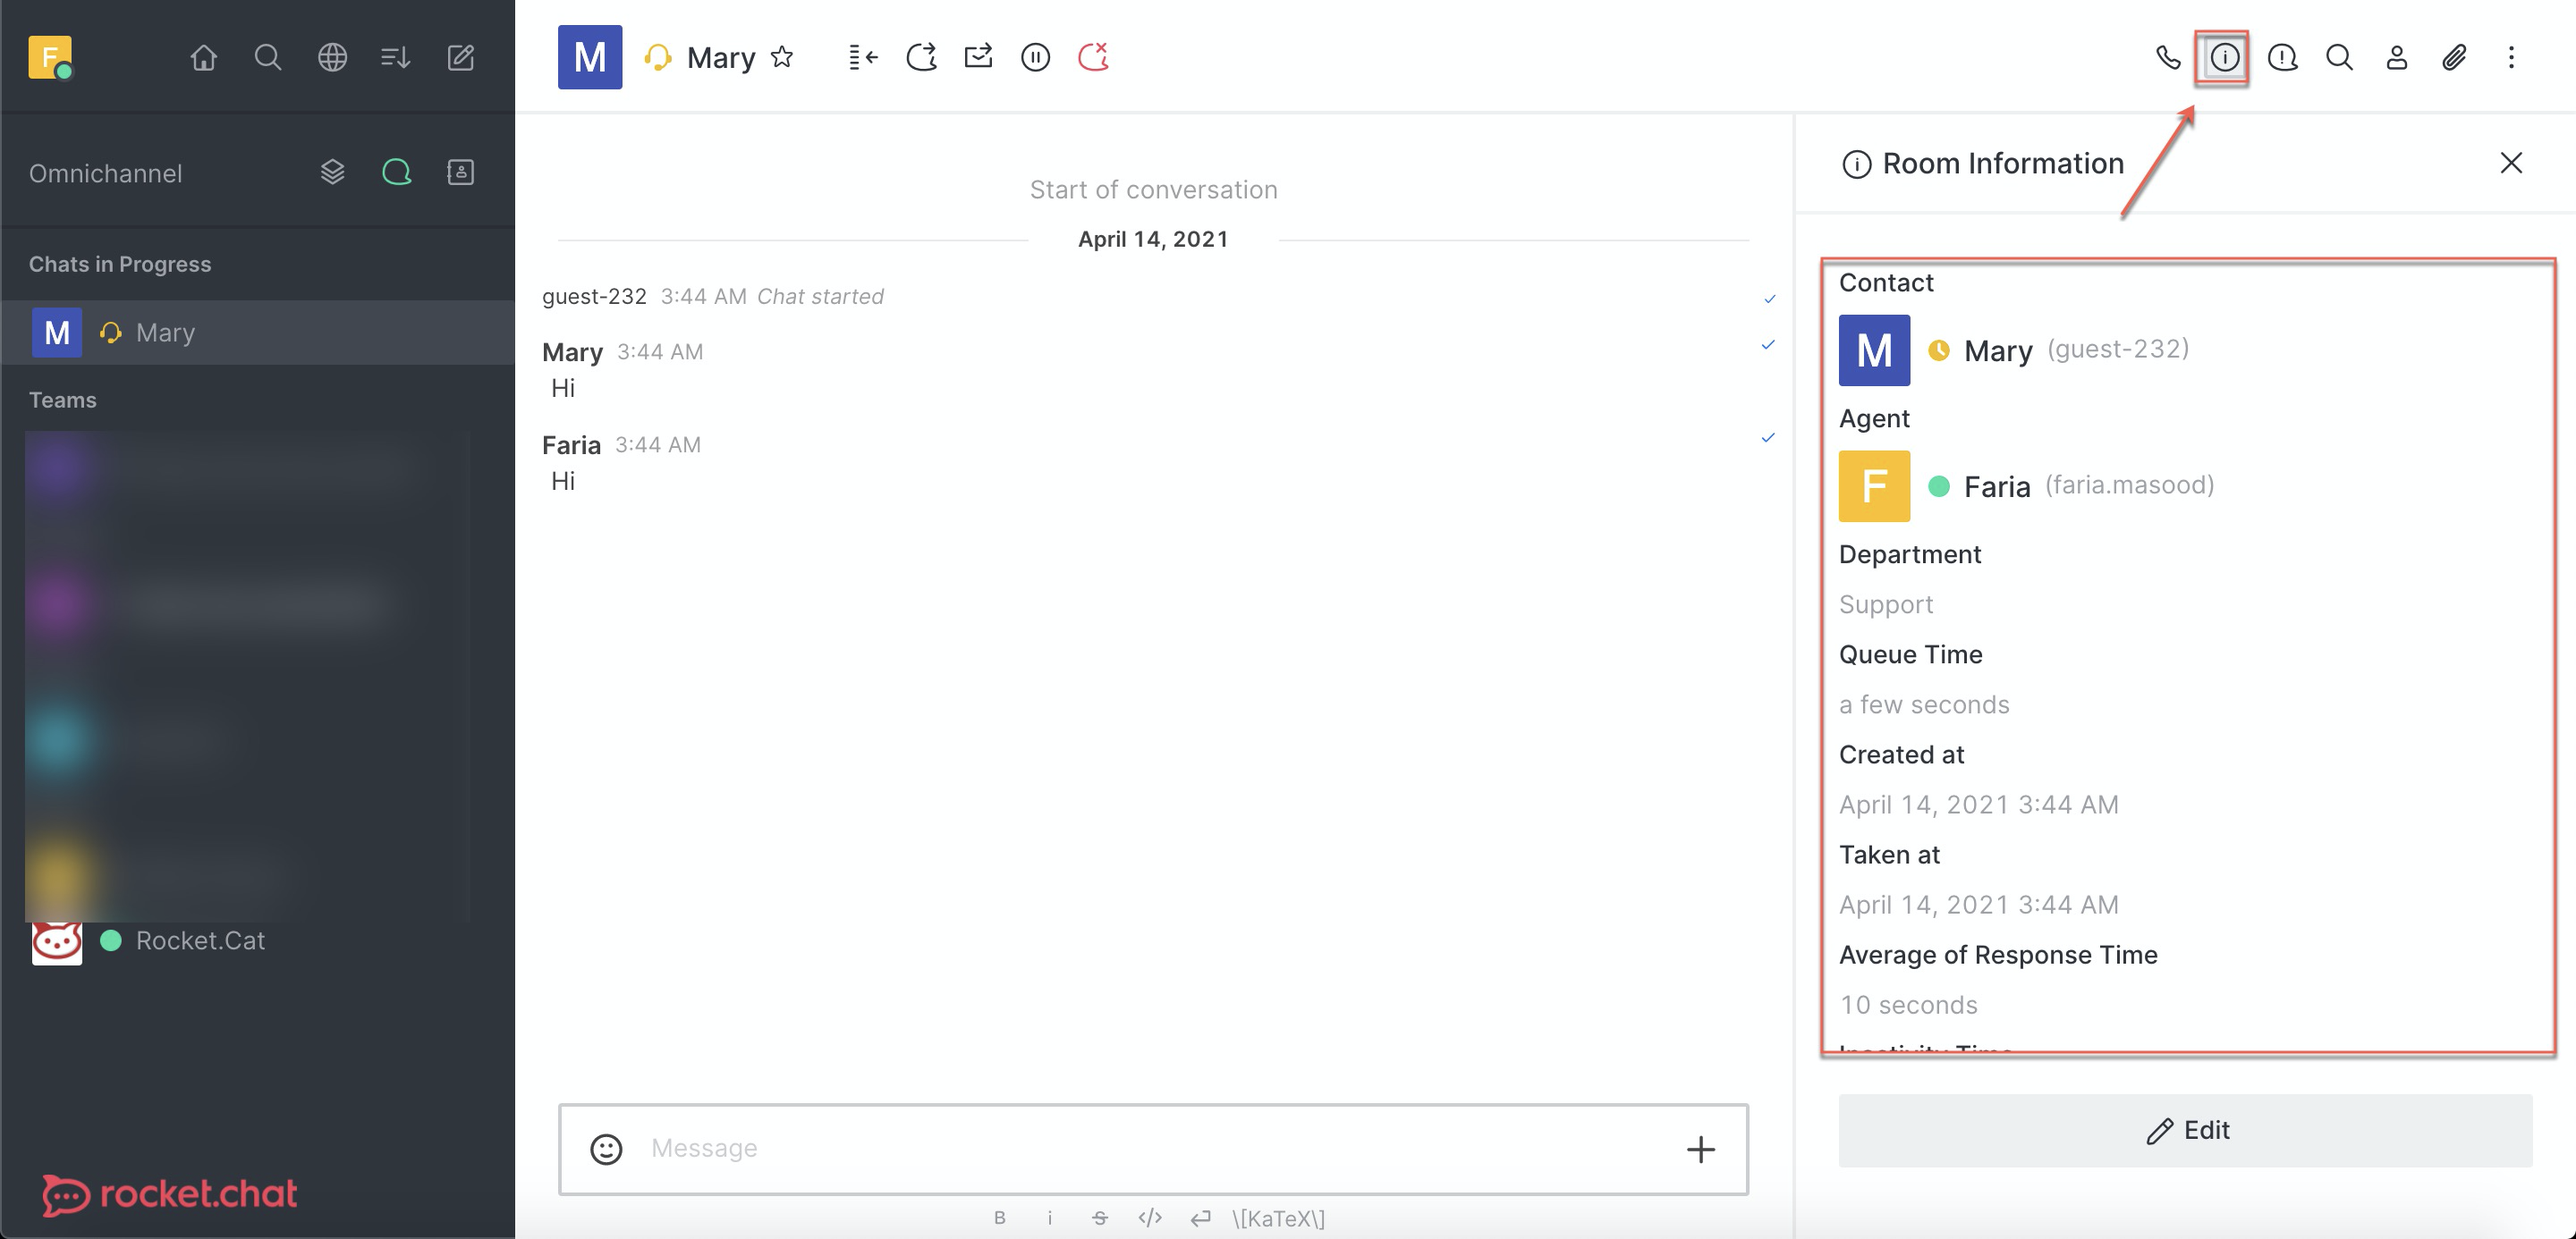
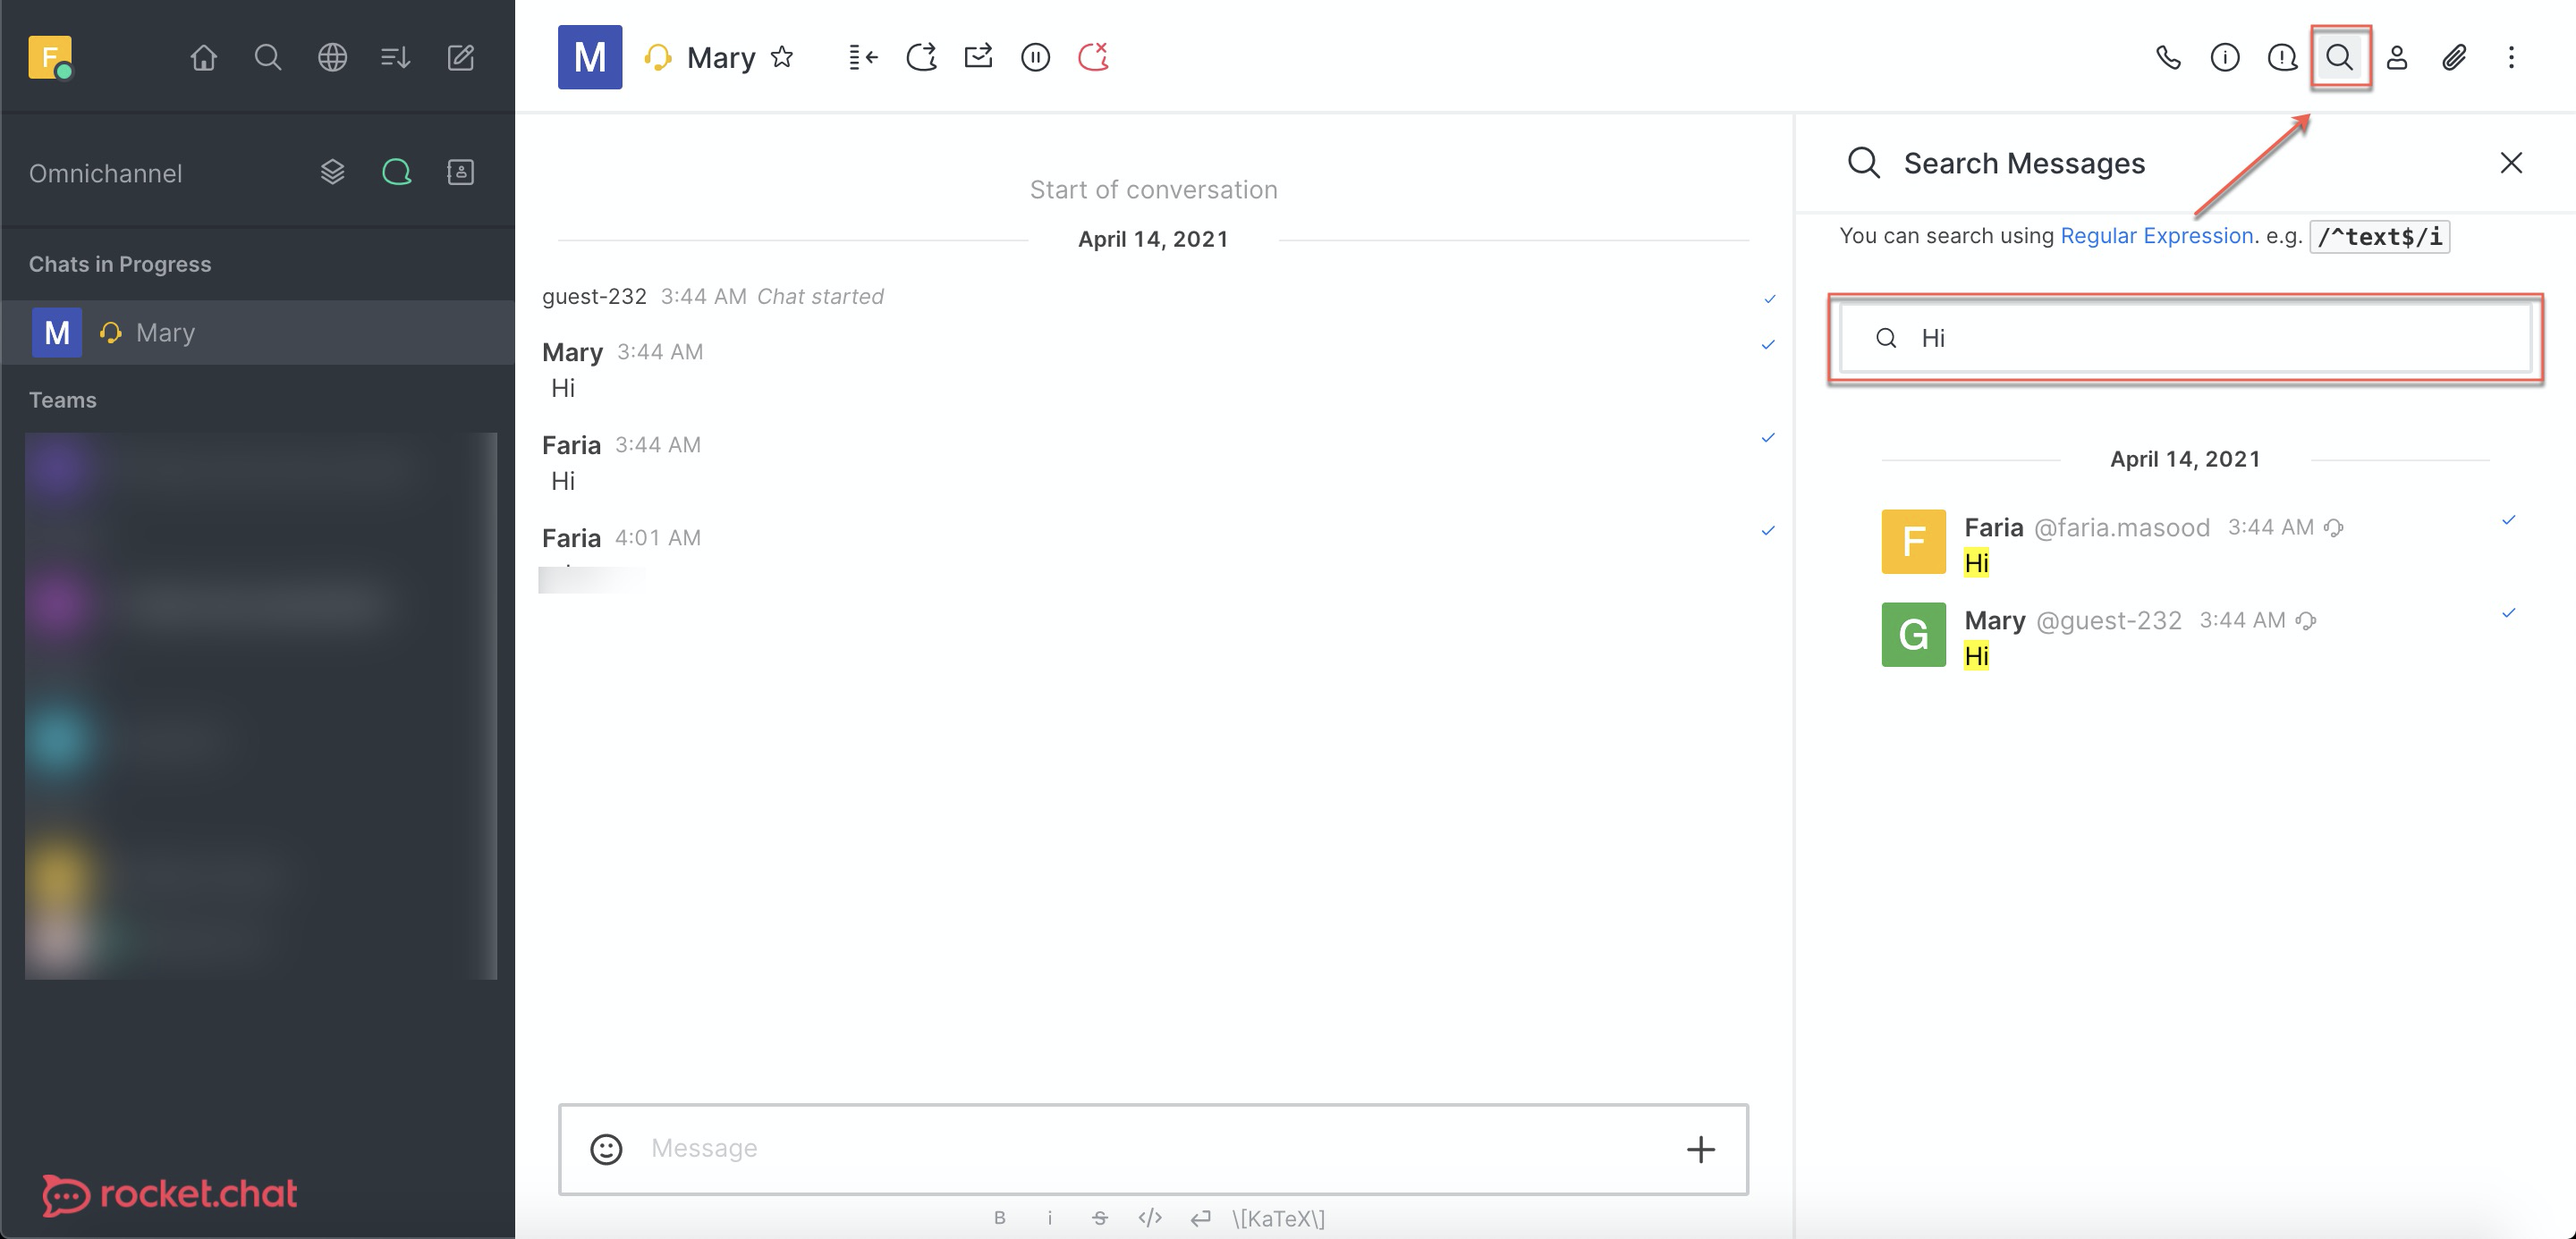
GitBook: [master] 3 pages and 3 assets modified

diff --git a/SUMMARY.md b/SUMMARY.md
@@ -229,6 +229,7 @@
       * [Omnichannel Chat Quick Actions](guides/omnichannel-guides/omnichannel-agents-guides/omnichannel-chat/omnichannel-chat-quick-actions.md)
       * [Room Information](guides/omnichannel-guides/omnichannel-agents-guides/omnichannel-chat/room-information.md)
       * [Canned Responses in Omnichannel Conversation](guides/omnichannel-guides/omnichannel-agents-guides/omnichannel-chat/canned-responses-in-omnichannel-conversation.md)
+      * [Search Messages in Omnichannel Conversation](guides/omnichannel-guides/omnichannel-agents-guides/omnichannel-chat/search-messages-in-omnichannel-conversation.md)
     * [Omnichannel Contact Center](guides/omnichannel-guides/omnichannel-agents-guides/omnichannel-contact-center.md)
     * [Omnichannel Queue](guides/omnichannel-guides/omnichannel-agents-guides/omnichannel-chats.md)
     * [Email Inbox \(Email as a Channel\)](guides/omnichannel-guides/omnichannel-agents-guides/email-inbox-email-as-a-channel.md)

diff --git a/guides/omnichannel-guides/omnichannel-agents-guides/omnichannel-chat/room-information.md b/guides/omnichannel-guides/omnichannel-agents-guides/omnichannel-chat/room-information.md
@@ -4,7 +4,7 @@ The room information menu allows you to see different stats related to the conve
 
 To access the information click **Room Information**, as shown below:
 
-![](../../../../.gitbook/assets/image%20%28319%29.png)
+![](../../../../.gitbook/assets/image%20%28320%29.png)
 
 Click Edit to add some further information:
 

diff --git a/guides/omnichannel-guides/omnichannel-agents-guides/omnichannel-chat/search-messages-in-omnichannel-conversation.md b/guides/omnichannel-guides/omnichannel-agents-guides/omnichannel-chat/search-messages-in-omnichannel-conversation.md
@@ -1,0 +1,6 @@
+# Search Messages in Omnichannel Conversation
+
+You can search a particular message in a conversation, as shown below:
+
+![](../../../../.gitbook/assets/image%20%28319%29.png)
+
